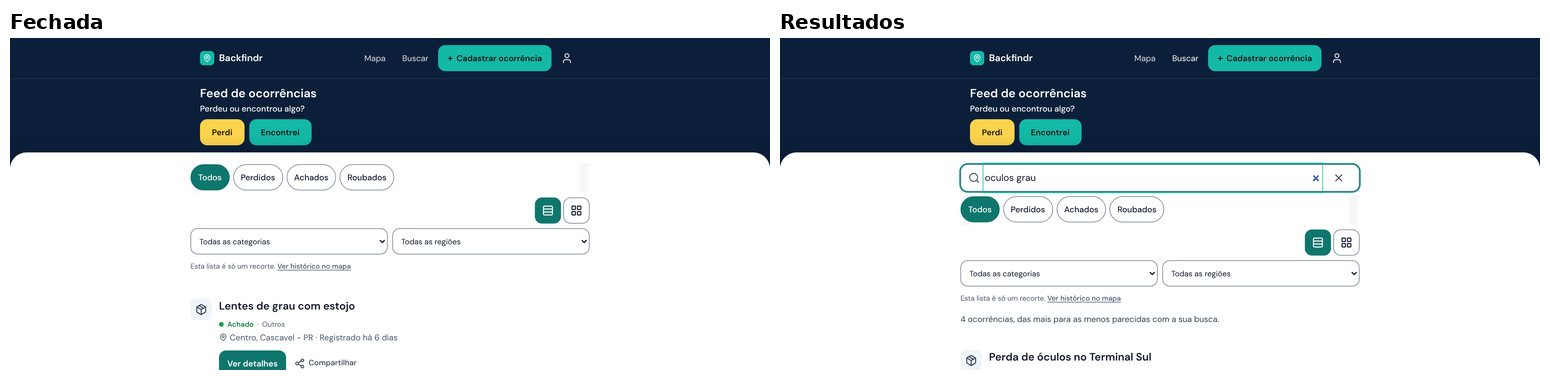
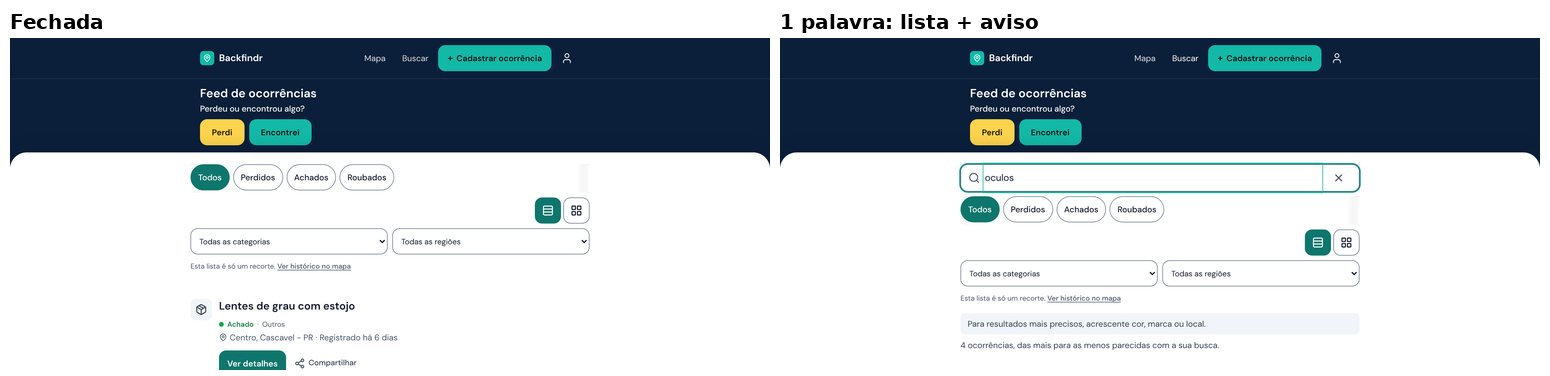
Feed: busca ampla vira só aviso acima da lista (não bloqueia)
Decisão do Marcos (F-38): com 1 palavra («oculos») a lista aparece; isBuscaAmpla só liga o aviso «Para resultados mais precisos, acrescente cor, marca ou local.». Texto abaixo do mínimo continua sem consulta. Testes e capturas atualizados.

Claude-Session: https://claude.ai/code/session_015MQFuqvmvfqhvfcdskKauj

diff --git a/tests/feed-busca.test.ts b/tests/feed-busca.test.ts
@@ -1,4 +1,4 @@
-// Busca por texto dentro do Feed: perdidos, achados e roubados, sem cadastro; sem legado; sinônimos; busca ampla orienta; /buscar redireciona.
+// Busca por texto dentro do Feed: perdidos, achados e roubados, sem cadastro; sem legado; sinônimos; busca ampla é só aviso (a lista vem); /buscar redireciona.
 //   TEST_DATABASE_URL=postgres://postgres:pw@127.0.0.1:5432/backfindr_test npx vitest@2 run --config tests/vitest.config.ts tests/feed-busca.test.ts
 // ATENÇÃO: a parte de banco recria as tabelas do banco de teste (tests/fixtures/feed-schema.sql). Use banco descartável.
 import { afterAll, beforeAll, beforeEach, describe, expect, it, vi } from 'vitest';
@@ -107,11 +107,37 @@ describe.skipIf(!TEST_DB)('busca do Feed com banco real', () => {
     const pe = await codes('oculos grau', { uf: 'PE' });
     expect(pe).toEqual(['OCU00003']);
   });
-  it('busca ampla (poucas palavras que identifiquem): não lista nada, só a orientação', async () => {
-    for (const t of ['oculos', 'azul', 'de', 'x']) {
-      const r = await busca.buscarNoFeed(t, {}); expect(r.ampla, t).toBe(true); expect(r.items, t).toEqual([]);
-    }
-    expect((await busca.buscarNoFeed('oculos grau', {})).ampla).toBe(false);
+  it('busca de UMA palavra («oculos») lista o óculos de grau perdido, por sinônimo e sem acento; `ampla` é só o aviso, não bloqueia', async () => {
+    const r = await busca.buscarNoFeed('oculos', {});
+    expect(r.ampla).toBe(true);                       // menos de 2 palavras que identifiquem: pede o aviso na tela
+    const c = r.items.map((i) => i.code);
+    expect(c).toContain('OCU00001');                  // «Óculos de grau preto» (perdido), digitado sem acento
+    expect(c).toContain('OCU00002');                  // «Lentes de grau com estojo» (achado), por sinônimo
+    expect(c).toContain('OCU00003');                  // «Óculos de sol roubados» (roubado)
+    for (const proibido of ['OCU00004', 'OCU00005', 'OCU00006']) expect(c).not.toContain(proibido); // legado, não público, devolvido: nunca
+  });
+  it('outras buscas amplas (só cor, só palavra vazia) também seguem listando o que casar; `ampla` só avisa', async () => {
+    for (const t of ['azul', 'oculos preto']) { const r = await busca.buscarNoFeed(t, {}); expect(r.ampla, t).toBe(true); expect(Array.isArray(r.items), t).toBe(true); }
+    expect((await busca.buscarNoFeed('azul', {})).items.map((i) => i.code)).toContain('OCU00002'); // «Estojo azul…»
+    expect((await busca.buscarNoFeed('oculos grau', {})).ampla).toBe(false);                      // 2 palavras: sem aviso
+  });
+  it('busca ampla com lista vazia (filtros sem correspondência): items vazio e ampla=true (a tela mostra o convite «Perdi»/«Encontrei»)', async () => {
+    const r = await busca.buscarNoFeed('oculos', { category: 'phone' }); expect(r.items).toEqual([]); expect(r.ampla).toBe(true);
+  });
+  it('texto abaixo do mínimo NÃO consulta nada (nem a lista do Feed nem o banco)', async () => {
+    for (const t of ['', ' ', 'x', null, undefined]) { const r = await busca.buscarNoFeed(t, {}); expect(r, String(t)).toEqual({ items: [], ampla: false, truncated: false }); }
+    const src = read('src/lib/feed/busca.ts');
+    expect(src.indexOf('BUSCA_MIN_CARACTERES) return')).toBeGreaterThan(0);
+    expect(src.indexOf('BUSCA_MIN_CARACTERES) return')).toBeLessThan(src.indexOf('getRankedFeed(filtros)'));
+    expect(src).not.toMatch(/isBuscaAmpla\(q\)\) return/);  // a busca ampla nunca zera a lista
+    expect(src).toContain('ampla');
+  });
+  it('mesmo com `ampla`, a resposta da rota continua só com os campos do card (sem legado, sem dado novo, sem eco do texto)', async () => {
+    const { body } = await api('?q=oculos');
+    expect(body.ampla).toBe(true); expect(body.items.length).toBeGreaterThan(0);
+    const permitidos = ['can_report_found', 'category', 'category_label', 'code', 'created_at', 'has_photo', 'location_label', 'origin', 'photo_url', 'source_name', 'source_url', 'status', 'status_label', 'title'];
+    for (const it of body.items) expect(Object.keys(it).sort()).toEqual(permitidos);
+    const txt = JSON.stringify(body); for (const proibido of ['owner_id', 'user_id', 'latitude', 'longitude', 'description', '_score', 'is_legacy', 'OCU00004']) expect(txt).not.toContain(proibido);
   });
   it('sem resultado: lista vazia e ampla=false (a tela mostra o convite «Perdi»/«Encontrei»)', async () => {
     const r = await busca.buscarNoFeed('foguete espacial', {}); expect(r.items).toEqual([]); expect(r.ampla).toBe(false);
@@ -201,7 +227,12 @@ describe('/buscar redireciona para o Feed e o HTML do Feed não muda', () => {
     const c = read('src/app/feed/FeedClient.tsx');
     expect(c).toContain('achados.items.map((it, i) => <FeedCard key={it.code} item={it} index={i} vis={vis} />)');
     expect(c).toMatch(/data-feed-busca-vazio>[\s\S]*<ConviteFim pagina=\{page\} \/>/);
-    expect(c).toContain('Sua busca precisa de mais detalhes para uma resposta melhor.');
+    // busca ampla: aviso curto ACIMA da lista (não bloqueia, não esconde); lista e aviso aparecem juntos
+    expect(c).toContain('Para resultados mais precisos, acrescente cor, marca ou local.');
+    expect(c).not.toContain('Sua busca precisa de mais detalhes');
+    expect(c.indexOf('data-feed-busca-ampla')).toBeLessThan(c.indexOf('achados.items.map((it, i) => <FeedCard'));
+    expect(c).toMatch(/\{achados\.ampla && \(\s*<p data-feed-busca-ampla/);
+    expect(c).not.toMatch(/achados\.ampla \? \(/);
     expect(read('src/lib/voltarFeed.ts')).toContain("/^\\/feed(\\/|$)/");
   });
   it('lista sem texto intacta: carregamento híbrido, ordem por faixas, FeedFoto e Voltar não foram tocados', () => {

diff --git a/src/lib/feed/busca.ts b/src/lib/feed/busca.ts
@@ -2,6 +2,7 @@
 // busca pública (src/lib/buscaPublica.ts, antes dentro de /api/v1/objects/public) e a regra de «busca ampla» (isBuscaAmpla).
 //  • Quem pode aparecer: SÓ o que o Feed já mostra (FEED_ELIGIBILITY_WHERE: público, NÃO legado, lost/found/stolen, com código) e SÓ nos filtros que o
 //    Feed já tem (situação, categoria, região): a lista vem de getRankedFeed (mesma elegibilidade, mesmas máscaras de nome, mesmo «bairro, cidade - UF»).
+//  • Busca ampla (isBuscaAmpla) só liga o aviso `ampla`; a lista é sempre devolvida (decisão do Marcos, F-38).
 //  • O texto é casado no banco com o título/descrição ORIGINAIS (F-18), mas o que SAI é só a lista fixa de campos do card (FeedItem): nunca dono,
 //    contato, coordenadas, descrição bruta, score nem o texto digitado.
 import { query } from '@/lib/db';
@@ -17,7 +18,7 @@ const OPCOES: OpcoesBusca = { radical: true, semAcento: true };
 
 export interface ResultadoBusca {
   items: FeedItem[];
-  /** true = a busca não tem palavras suficientes para identificar o objeto: nenhuma lista, só a orientação de dar mais detalhes. */
+  /** true = a busca tem menos de 2 palavras que identifiquem o objeto (isBuscaAmpla). É SÓ um aviso para a tela: a lista vem normalmente. */
   ampla: boolean;
   /** true = o teto de leitura do Feed foi atingido (as ocorrências mais antigas ficaram de fora). */
   truncated: boolean;
@@ -25,10 +26,11 @@ export interface ResultadoBusca {
 
 export async function buscarNoFeed(textoBruto: unknown, filtros: FeedParams = {}): Promise<ResultadoBusca> {
   const q = normalizarConsulta(textoBruto);
-  if (q.length < BUSCA_MIN_CARACTERES || isBuscaAmpla(q)) return { items: [], ampla: true, truncated: false };
+  if (q.length < BUSCA_MIN_CARACTERES) return { items: [], ampla: false, truncated: false }; // texto curto demais: não consulta nada
+  const ampla = isBuscaAmpla(q); // decisão do Marcos (F-38): busca ampla NÃO bloqueia a lista; só pede um aviso na tela
 
   const ranked = await getRankedFeed(filtros);
-  if (ranked.items.length === 0) return { items: [], ampla: false, truncated: ranked.truncated };
+  if (ranked.items.length === 0) return { items: [], ampla, truncated: ranked.truncated };
 
   const params: unknown[] = [];
   const kw = buildKeywordConditions(expandirKeyword(removerAcentos(q), OPCOES), params, OPCOES);
@@ -51,5 +53,5 @@ export async function buscarNoFeed(textoBruto: unknown, filtros: FeedParams = {}
     .sort((a, b) => (pontos.get(b.code) ?? 0) - (pontos.get(a.code) ?? 0))
     .slice(0, BUSCA_MAX_RESULTADOS)
     .map(toPublicItem);
-  return { items, ampla: false, truncated: ranked.truncated };
+  return { items, ampla, truncated: ranked.truncated };
 }

diff --git a/src/app/feed/FeedClient.tsx b/src/app/feed/FeedClient.tsx
@@ -614,11 +614,6 @@ export default function FeedClient({ initialItems, initialNextCursor, initialHas
         <section aria-label="Resultados da busca" data-feed-resultados className="mt-3">
           {achados === null ? (
             <p role="status" className={`text-sm ${T.t2}`}>{buscaFalhou ? 'Não foi possível buscar agora. Tente de novo em instantes.' : 'Buscando…'}</p>
-          ) : achados.ampla ? (
-            <div role="status" data-feed-busca-ampla className={`rounded-xl p-4 ${T.aviso}`}>
-              <h2 className={`text-base font-semibold ${T.t1}`}>Sua busca precisa de mais detalhes para uma resposta melhor.</h2>
-              <p className={`mt-1 text-sm leading-relaxed ${T.t2}`}>Descreva o objeto com mais palavras: o tipo e a marca, o modelo ou o lugar. Por exemplo: «óculos de grau» ou «chave com chaveiro».</p>
-            </div>
           ) : achados.items.length === 0 ? (
             <div data-feed-busca-vazio>
               <p role="status" className={`text-sm font-medium ${T.t1}`}>Nenhuma ocorrência encontrada para esta busca, nos filtros escolhidos.</p>
@@ -626,6 +621,9 @@ export default function FeedClient({ initialItems, initialNextCursor, initialHas
             </div>
           ) : (
             <>
+              {achados.ampla && (
+                <p data-feed-busca-ampla className={`mb-2 rounded-lg px-3 py-2 text-sm ${T.aviso} ${T.t2}`}>Para resultados mais precisos, acrescente cor, marca ou local.</p>
+              )}
               <p role="status" className={`mb-2 text-sm ${T.t2}`}>{achados.items.length === 1 ? '1 ocorrência' : `${achados.items.length} ocorrências`}, das mais para as menos parecidas com a sua busca.</p>
               <div className={classesLista(vis, buscando)} aria-busy={buscando}>
                 {achados.items.map((it, i) => <FeedCard key={it.code} item={it} index={i} vis={vis} />)}

diff --git a/DECISOES.md b/DECISOES.md
@@ -61,7 +61,7 @@ Esta versão reúne as decisões Q-01 a Q-15, de 28/10/2026, sobre o QR Code com
 | F-21 | 14/11/2026 | **Feed: acabamento do visual novo, depois do teste no iPhone (pedido do Marcos; SUBSTITUI instruções de ajuste anteriores do PR do visual).** Só apresentação e o título da página. (A) Título «Feed de ocorrências» no H1 (menor, continua visível) e no título da aba/`og:title` («Feed de ocorrências de objetos perdidos e achados \| Backfindr»); canonical, noindex das páginas 2+ e a descrição ficam como estavam (a descrição, que dizia «as ocorrências mais recentes», passou a «Veja ocorrências de objetos, documentos e pets perdidos, achados ou roubados registradas no Backfindr, e compartilhe para ajudar na devolução.» — meta, `og:description` e o resto iguais); o Feed não define `twitter:title` nem JSON-LD próprio (valem os do site), então nada a trocar neles. (B) Grade: o card SEM foto (94% do Feed) usa uma faixa de mídia baixa de 80 px com o ícone da categoria e cor suave; **isto substitui a regra «card sem foto com a mesma altura do card com foto»**; as linhas da grade continuam esticadas (cards da mesma linha com a mesma altura). (C) Na Grade o rótulo visível passa a «Encontrei» (nome acessível, destino e evento de «Informar que encontrei» iguais; só perdido de usuário); em Publicações «Informar que encontrei» fica na mesma linha de «Ver detalhes» e «Compartilhar», alinhado à ESQUERDA da linha (só visualmente; a ordem no HTML não muda), e deixou de passar sob o balão do chat (abaixo de 440 px «Compartilhar» vira só o ícone, com o nome acessível mantido, para as três caberem; **isto substitui F-11 (1), que pedia duas linhas e ações longe do balão do chat**). (D) O card inteiro abre os detalhes: o link do título cobre o card; compartilhar, «Encontrei», «Ver detalhes» e o link da fonte ficam por cima; em Publicações o card continua com dois links para o mesmo destino (título e «Ver detalhes»), como já era. (E) Botão fixo «+ Cadastrar ocorrência» a 8 px da borda (ou da área segura do iPhone, o que for maior); mesmo comportamento de esconder. (F) Balão do assistente: no `/feed` o fundo claro deixava o ícone branco invisível (a classe de fundo do balão não existe no CSS do projeto); aplicado só na página do Feed um fundo sólido, anel branco e sombra; posição e comportamento não mudam; a opção global (definir a classe que falta) fica listada para decisão. (G) Topo e filtros mais limpos: faixa menor com H1, a chamada curta «Perdeu ou encontrou algo?» e dois botões «Perdi» / «Encontrei» (nome acessível «Perdi algo» / «Encontrei algo»; mesmos destinos e eventos; só na página 1); o parágrafo longo saiu do topo e o texto («O Backfindr conecta pessoas…» e «Os registros mais recentes…») foi para o bloco «O Backfindr vai além das publicações», depois do 3º card, no HTML do servidor; **isto altera F-06** (que colocava esse texto e os botões «Perdi algo»/«Encontrei algo» sob o título); a frase em negrito «Perdeu algo? Encontrou alguma coisa?» foi trocada pela chamada curta. O caminho «Roubaram algo meu» continua só no menu «+ Cadastrar ocorrência» (cabeçalho no computador e botão fixo no celular, evento `feed_cta_roubado`). Uma linha pequena e cinza «Esta lista é só um recorte recente. Ver histórico no mapa» perto dos filtros. Chips sem rolagem a partir de 375 px; seletor de visualização em linha própria, à direita; Categoria e Região lado a lado, sem rótulo visível (`aria-label`). Todos os eventos `feed_*`, a escolha guardada, os filtros e a restauração continuam. | F-05; F-06; F-11; F-12; F-19 | DECIDIDO; mesclado e verificado em produção (#113, 46311e6) |
 | F-22 | 14/11/2026 | **Endereço público só com bairro e cidade, duas frases e o «Ver detalhes» do /achei (pedido do Marcos).** (1) As saídas PÚBLICAS passam a mostrar o endereço de cadastros de USUÁRIO só como «bairro, cidade - UF» (a mesma redução do Feed): a lista pública `/api/v1/objects/public` (e, por ela, home, `/buscar`, mapa da home, `/achei` e o passo 2 dos fluxos), o apoio do passo 2, a leitura por código `/api/v1/objects/scan/[code]` e, por ela, a página `/objeto/[code]` (tela, título, descrição, meta e JSON-LD usados pelo Google), a página de QR e o painel do mapa. Legado e sinais públicos saem exatamente como estão (não têm rua). Casamento, pontuação, ordem e ids continuam usando o texto original; o dono continua vendo o endereço completo nas telas dele (painel e edição); as coordenadas públicas ficam como a (5) abaixo. (2) O resultado vazio do `/achei` deixa de dizer «se ele procurar, a gente conecta vocês» (soava como promessa de resposta) e passa a «Crie uma conta gratuita para registrar o que você encontrou.»; o bloco depois do 3º card do Feed deixa de dizer «Os registros mais recentes de objetos…» e passa a «A lista é um recorte das ocorrências de objetos, documentos e pets perdidos, achados ou roubados; o histórico está no mapa.» (o link «Ver no mapa» e o aviso «Ver histórico no mapa» continuam). (3) O «Ver detalhes» dos resultados do `/achei` nunca aparecia (o código esperava `code` e a rota devolve `unique_code`): passa a usar `unique_code` e levar a `/objeto/<código>`; o que o `/objeto` mostra para sinais públicos e legado não muda; a foto continua abrindo o ampliador e o «É este» não muda. (4) **Fechamento depois do teste do Marcos na prévia.** O `/objeto` de um cadastro real ainda mostrava a rua: a página consulta a API pelo endereço do ambiente (na prévia, a API de produção, ainda sem a redução). Agora a própria página (`/objeto` e `/scan`) reduz o endereço e arredonda a coordenada antes de gerar tela, título, descrição, meta, JSON-LD e dados embutidos; testado com a API devolvendo o endereço completo. A imagem de pré-visualização do cartaz (`og:image`, Twitter e o download de quem visita `/objeto`) usa `?publico=1`: só «bairro, cidade - UF» e mapa com coordenada arredondada; o cartaz do dono (painel, sem o parâmetro) continua com o texto original (o dono não edita o texto do cartaz: ele sai do cadastro, que ele edita na edição do objeto, e é gerado no download). O texto dos posts sociais passa a levar só «bairro, cidade - UF» (a fila `social_posts` não existe em produção, então nenhum post pendente com endereço). O n8n «AutoPost» gera texto por IA com nicho e cidade fixos e não lê cadastros. (5) **Coordenada pública** de cadastro de usuário com 3 casas (~110 m) na lista pública, no `/objeto` e no mapa (que passou a ler `is_legacy` e `source`); legado e sinais intactos; o servidor usa sempre a original. Marcos aceitou que, na lista «perto de mim» do mapa (ordenada no navegador), cadastros a menos de ~100 m um do outro possam trocar de posição. (6) Frases: no bloco ao lado de «Avisar o dono que encontrei» (`/objeto`) e na tela de aviso enviado (`/objeto` e `/scan`) saem «A conversa acontece pelo chat da plataforma» e «O dono recebe um aviso» (o dono legado não é avisado e não há canal de conversa por ocorrência para quem acha sem conta); entram «Seu aviso fica registrado nesta ocorrência.», «Push e e-mail saem só quando o dono não é legado, conforme as configurações dele.» e «Não há garantia de resposta.». O «É o meu?» do `/buscar` usa `unique_code`; o aviso do Feed perto dos filtros passa a «Esta lista é só um recorte.» (sem «recente»); «É este» e «Ver detalhes» no `/achei` ficam alinhados, com folga de 12 px. **Decidido pelo Marcos: NÃO limpar o HTML nem o «\n» literal das descrições do legado** (os textos e os dados do legado não são tocados); isso sai das pendências. | F-20; F-21; B-25; B-27; Q-31; Q-32 | DECIDIDO; mesclado e verificado em produção (#116, 58bb601) |
 | F-23 | 14/11/2026 | **Cartaz sem blocos de erro do mapa, frase do cartaz e fim da frase do «chat da plataforma» (pedido do Marcos, depois de ver o cartaz no iPhone).** (a) O mini-mapa «Local da ocorrência» do cartaz A4 mostrava blocos «Access blocked» porque o cartaz buscava 9 blocos em tile.openstreetmap.org sem User-Agent nem Referer, sem cache, a partir dos IPs compartilhados da Vercel; o OSM responde a isso com uma imagem de erro com status 200, que ia para dentro do cartaz. Opções avaliadas: (1) continuar no OSM com User-Agent, Referer e cache (custo zero, mas o OSM não é para uso pesado ou comercial sem aviso e uma recusa volta como imagem 200, difícil de detectar); (2) imagem estática do Mapbox, com o mesmo token do mapa do site (um pedido por cartaz, erro de verdade quando falha; limite gratuito NÃO confirmado na página oficial (não foi possível abri-la daqui): sites de preços e a página de preços dizem 50 mil imagens estáticas por mês e cerca de US$ 1 por mil acima disso, mas o guia de cadastro do Mapbox lista 5 mil por mês — conferir na conta; a imagem leva a marca e a atribuição do Mapbox/OSM, como a licença pede; não pôde ser testada neste ambiente porque o acesso ao Mapbox é bloqueado aqui); (3) mapa próprio (exigiria servidor de mapas: caro e fora de escopo). **Implementada a 2:** um único pedido, resposta validada (status 200 e tipo imagem); qualquer falha ou falta de token = SEM mapa, e o bloco «Local da ocorrência» some (o texto bairro/cidade permanece). Cartaz do dono: coordenada original; prévia pública (?publico=1): coordenada arredondada. O QR do cartaz continua vindo de api.qrserver.com (não mexido). (b) No cartaz A4, «O QR Code abre a página do objeto. Avise o dono — ele recebe um alerta imediato.» (promessa falsa para dono legado e sem garantia de resposta) vira «Escaneie o QR Code para abrir a página do objeto e avisar que você o encontrou.» Ficam como estão, por serem convite e não promessa: «Avise o dono — backfindr.com» (quadrado e vertical), «Você viu? Escaneie e avise o dono!» (vertical) e o texto de compartilhamento do WhatsApp em `/objeto`; o post social (modelo padrão) e o botão «Instagram Stories» (que baixa o cartaz) não têm a promessa. (c) Nada mais com «alerta imediato» foi achado nos cartazes, posts e imagens de compartilhamento. Fora desses (não mexidos, para decisão): «Notificação imediata quando encontrado» (cadastro), «você é avisado imediatamente» (páginas de cidade), «Seja avisado na hora» (cartões de push e página de objeto criado) e o blog («ser avisado imediatamente quando o QR for escaneado»). (d) Retirada a frase «a conversa acontece pelo chat da plataforma» (e as variantes «a conversa com o dono…», «Converse com segurança», «chat interno», «fale com o dono pelo chat») onde ela falava de quem achou e do dono: home, assistente (respostas prontas, instruções e filtro de linguagem, que agora usa «O aviso fica registrado na ocorrência; não há garantia de resposta.»), FAQ, blog, /encontrei, rodapé e passos dos fluxos (found, pet, wallet, keys, protect), benefícios do cadastro e e-mail de boas-vindas. Texto novo: o aviso fica registrado na ocorrência; push e e-mail só saem quando o dono não é legado; não há garantia de resposta. **Conflitos:** reavalia a decisão de 01/11/2026 (documento «Arquitetura de comunicação») que aceitou a fórmula do chat — o chat de conversa entre quem achou e quem perdeu não existe (a tabela `chat_messages` é ligada a correspondências e tem 1 mensagem no total); superados os textos dos fluxos de F-07, F-09 e F-10, que mantinham a fórmula; revoga o texto da home de Q-12. **Ficam como estavam (o chat das correspondências confirmadas existe):** e-mail de mensagem nova no chat, notificação «Combine a devolução pelo chat» e as respostas do assistente sobre matches. **Em aberto, para decisão do Marcos:** a definição oficial do produto (Q-11) e os metadados do site e dos planos ainda dizem «chat mediado»; o assistente ainda fala em «contato mediado» na definição oficial. Nada de dado foi alterado; legado e sinais públicos intactos. **Decisão do Marcos (15/11/2026): o mapa público fica como está** (imagem do Mapbox, coordenada arredondada em 3 casas, zoom atual). Verificado em produção: o mapa real aparece nos cartazes A4 público e do dono, sem blocos de erro; só o A4 leva mapa (o quadrado e o vertical, usados na pré-visualização de links, não pedem mapa ao Mapbox). | Q-11; Q-12; Q-32; F-07; F-09; F-10; F-22 | DECIDIDO; mesclado e verificado em produção (#117, 1b2b841) |
-| F-38 | 18/11/2026 | **A busca por texto passa a ficar NO FEED; o /buscar antigo é desligado (decisão do Marcos).** (1) Campo de busca compacto no Feed (abre ao tocar em «Buscar» no topo), sem cadastro, procurando perdidos, achados e roubados, nos filtros que o Feed já tem (situação, categoria, região). (2) Reaproveita a lógica da busca pública (sinônimos, expansão de termos, score mínimo e «busca ampla»), agora em `src/lib/buscaPublica.ts` (movida sem mudança de comportamento para os demais consumidores); só o Feed liga duas opções novas: sinônimos por radical (a chave «oculos» do dicionário nunca casava, porque `normalizarPalavra` tira o «s») e casamento sem acento. (3) Só aparece o que o Feed já pode mostrar (público, NÃO legado, lost/found/stolen, com código), com as máscaras do Feed; nada de dono, contato, coordenadas nem descrição bruta; o texto digitado não vai para a URL nem para analítica. (4) Busca ampla (menos de 2 palavras que identifiquem o objeto) mostra a orientação «Sua busca precisa de mais detalhes…» e nenhuma lista. Sem resultado: o convite «Perdi»/«Encontrei» que já existe. (5) `/buscar` redireciona (308) para `/feed`, preservando `?q=` (e `?keyword=` de e-mails antigos); saiu do sitemap; o JSON-LD de busca do site aponta para `/feed?q=`; `/feed?q=` leva `X-Robots-Tag: noindex` e o canonical continua `/feed` (a página segue estática e indexável). **Ajusta a F-01** («Feed ao lado da Busca e do Mapa»): a busca agora é do Feed. **Pendente de decisão do Marcos:** a «busca ampla» bloqueia a lista também para UMA palavra («oculos»), porque `isBuscaAmpla` exige 2 palavras de identificação; o /buscar antigo NÃO fazia isso (listava). Para listar também com uma palavra, basta tratar a busca ampla só como aviso acima da lista | Marcos, pedido de 18/11/2026 | APLICADO no PR de busca no Feed (rascunho, sem merge) |
+| F-38 | 18/11/2026 | **A busca por texto passa a ficar NO FEED; o /buscar antigo é desligado (decisão do Marcos).** (1) Campo de busca compacto no Feed (abre ao tocar em «Buscar» no topo), sem cadastro, procurando perdidos, achados e roubados, nos filtros que o Feed já tem (situação, categoria, região). (2) Reaproveita a lógica da busca pública (sinônimos, expansão de termos, score mínimo e «busca ampla»), agora em `src/lib/buscaPublica.ts` (movida sem mudança de comportamento para os demais consumidores); só o Feed liga duas opções novas: sinônimos por radical (a chave «oculos» do dicionário nunca casava, porque `normalizarPalavra` tira o «s») e casamento sem acento. (3) Só aparece o que o Feed já pode mostrar (público, NÃO legado, lost/found/stolen, com código), com as máscaras do Feed; nada de dono, contato, coordenadas nem descrição bruta; o texto digitado não vai para a URL nem para analítica. (4) **Busca ampla (menos de 2 palavras que identifiquem o objeto, `isBuscaAmpla`) NÃO bloqueia a lista: é só um AVISO curto acima dos resultados** («Para resultados mais precisos, acrescente cor, marca ou local.»), sem esconder nem atrasar a lista (decisão do Marcos de 18/11/2026, que resolve a pendência abaixo; o /buscar antigo nunca bloqueava, e buscar só «oculos» deve listar). Sem resultado (inclusive busca ampla): o convite «Perdi»/«Encontrei» que já existe. (5) `/buscar` redireciona (308) para `/feed`, preservando `?q=` (e `?keyword=` de e-mails antigos); saiu do sitemap; o JSON-LD de busca do site aponta para `/feed?q=`; `/feed?q=` leva `X-Robots-Tag: noindex` e o canonical continua `/feed` (a página segue estática e indexável). **Ajusta a F-01** («Feed ao lado da Busca e do Mapa»): a busca agora é do Feed. | Marcos, pedido de 18/11/2026 | APLICADO no PR de busca no Feed (rascunho, sem merge) |
 | F-35 | 17/11/2026 | **PostHog não recebe token na URL (pedido do Marcos, correção de segurança; é a «decisão à parte» que o F-33 e o F-34 deixaram para o PostHog).** O `$pageview` manual enviava a query inteira, e o autocapture, a saída de página, os dados de sessão e a gravação também levam a URL; o `mask_personal_data_properties` só cobre parâmetros de campanha. (1) O `$pageview` manual passa a URL por uma função de limpeza. (2) Todo evento, inclusive autocapture e gravação de sessão, passa pela mesma limpeza antes de sair (`before_send`): `$current_url`, `$referrer`, `$pathname` (e os equivalentes iniciais e de entrada da sessão) e o endereço registrado dentro da gravação. Nas rotas com token (link mágico, redefinição de senha) saem a query e o fragmento; em `/custody/<token>` e `/delivery/<token>` o token no caminho vira `[redacted]`; nas demais rotas saem só os parâmetros de credencial e o resto fica igual. (3) Usa a mesma lista do F-34 (`src/lib/trackingGuard.ts`). (4) **Fora do escopo, não alterados:** nomes e propriedades dos eventos existentes, o identify, o mascaramento atual, o conteúdo (DOM) da gravação, banner de consentimento e política de privacidade (Q-19). Sem relação com matching, comunicação ou retenção de dados | Marcos, chat de 17/11/2026 | APLICADO no PR da branch `claude/posthog-sem-token-na-url` (rascunho, sem merge; empilhado sobre o #138) |
 | F-34 | 17/11/2026 | **Meta Pixel e GA4 não recebem endereços com token (pedido do Marcos, correção de segurança, depois do levantamento).** O Pixel e o GA4 mandam a URL completa a Meta e Google; nas páginas de link mágico (`/auth/magic-confirm`), de redefinição de senha (`/auth/reset-password`), de custódia (`/custody/<token>`) e de entrega (`/delivery/<token>`) isso incluía o token. (1) Nessas páginas, e em qualquer página cuja URL traga `token`, `access_token`, `refresh_token`, `id_token`, `otp`, `secret`, `password` ou `senha`, o Pixel e o GA4 não carregam. (2) Nas outras páginas nada muda: mesmos scripts e mesmos eventos (Lead, Purchase, ViewContent, `ocorrencia_publicada`). (3) Os links do painel para `/delivery/<token>` passam a abrir por carga completa da página. (4) Uma lista central e testes obrigam toda rota nova com token na URL a ser classificada. (5) **Fora do escopo, não alterados:** os fluxos de login e de redefinição, o PostHog (decisão à parte), o retorno do pagamento em `/checkout/success`, banner de consentimento e política de privacidade (Q-19). Sem relação com matching, comunicação ou retenção de dados | Marcos, chat de 17/11/2026 | APLICADO no PR #138 (rascunho, sem merge) |
 | F-37 | 17/11/2026 | **Validade dos links públicos de custódia e de entrega (decisão do Marcos, opção B).** (1) O link vale enquanto a custódia ou a entrega estiver ativa e por 7 dias depois de concluída (entregue ou cancelada); nesse período a pessoa ainda abre e vê o comprovante. (2) Passados os 7 dias, a página mostra só «Concluída — este link não está mais disponível», sem nome, telefone, endereço, descrição nem datas. (3) O prazo é por tipo (custódia e entrega podem ter prazos diferentes; hoje os dois têm 7 dias) e fica num único lugar do código. (4) Nada é apagado: a validade é calculada a partir de datas que já existem, e a primeira abertura depois do prazo grava um registro no histórico da custódia ou da entrega. (5) A confirmação de recebimento continua de uso único (uma segunda confirmação é recusada), como antes. (6) Um endereço que nunca existiu continua respondendo «link inválido». (7) **Limite conhecido:** uma custódia ou entrega que nunca for concluída nem cancelada mantém o link aberto; o encerramento depende de alguém concluí-la ou cancelá-la. Sem relação com matching, comunicação, analítica ou retenção de outros dados | Marcos, chat de 17/11/2026 | APLICADO no PR #142 (rascunho, sem merge) |
